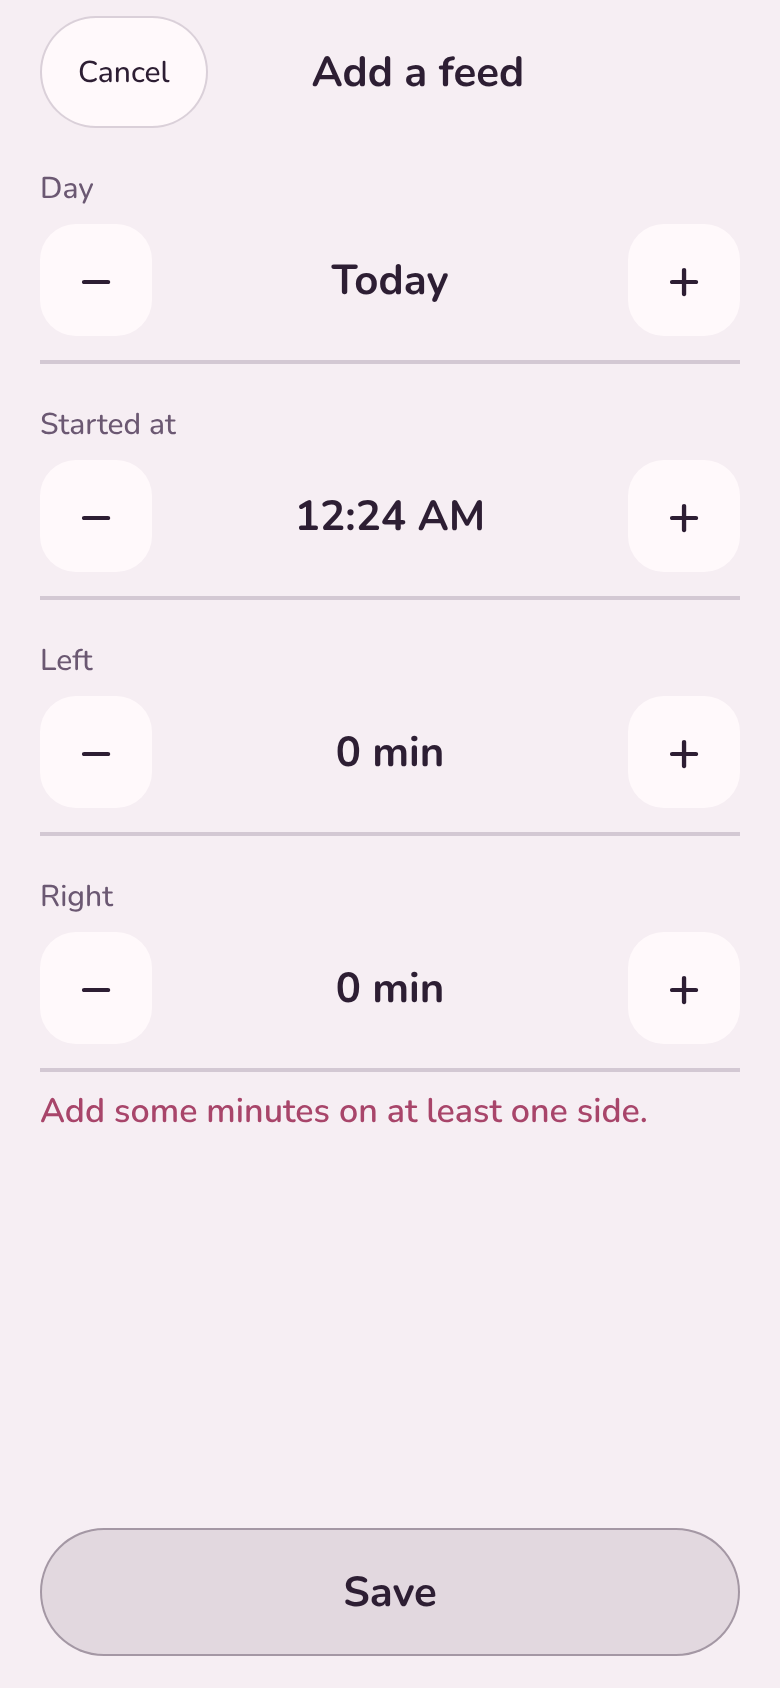
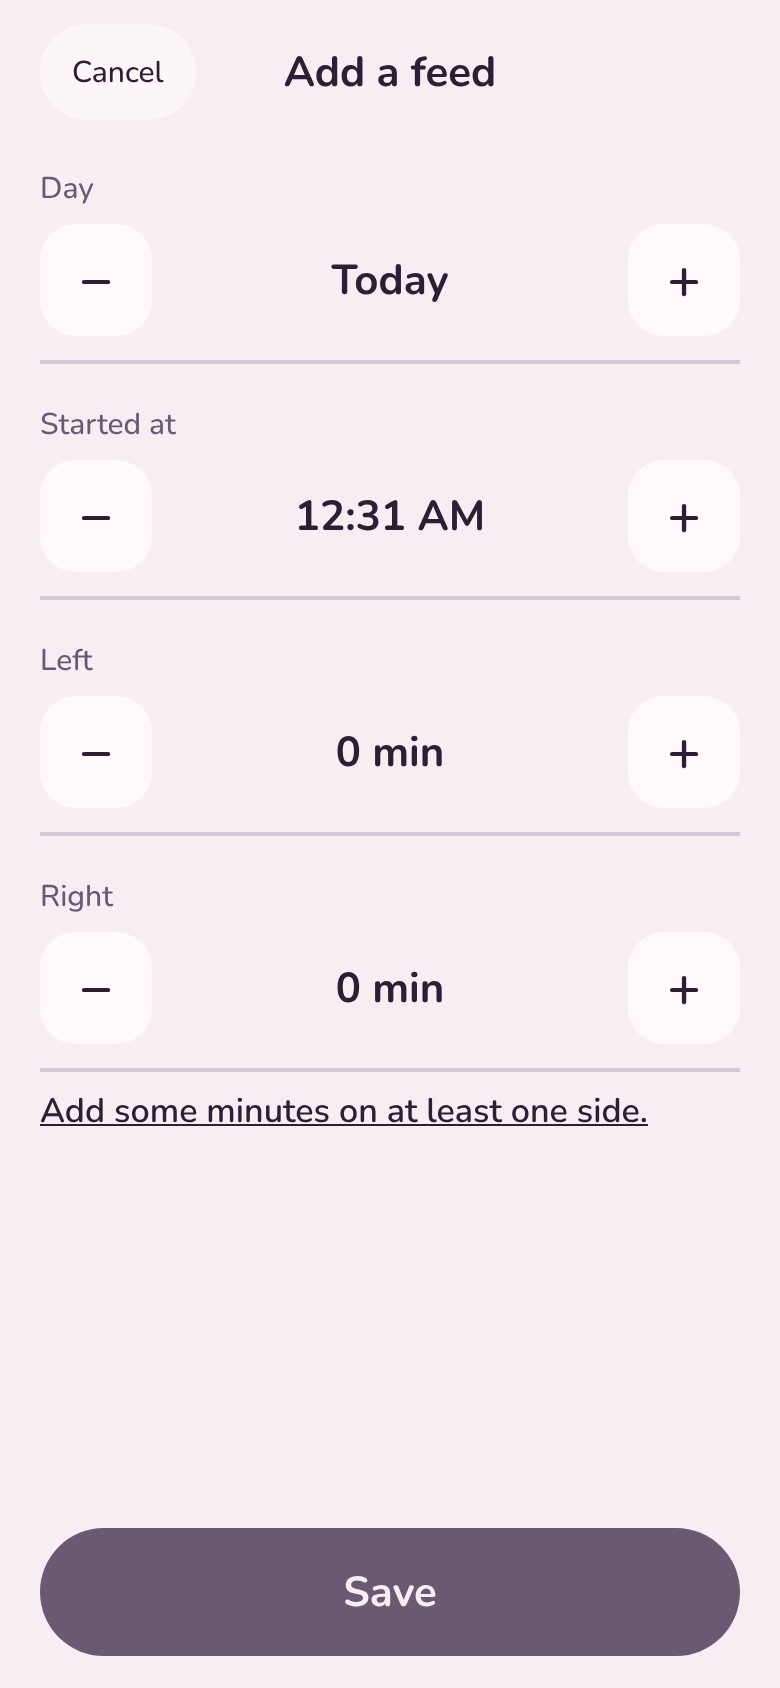
Polish the plum design after the round 8 critic [skip ci]
Done and Save are filled lilac, the feeding side is a tint with an outline,
day Right is coral, the ring is lilac at rest and still while feeding, card
buttons have one clear main choice, links and errors use the text colour,
titles are centred and the snackbar actions are plain text.

Claude-Session: https://claude.ai/code/session_01Uge6Tu9nfBMVmhGxJKiexz

diff --git a/src/components/ui.tsx b/src/components/ui.tsx
@@ -36,9 +36,9 @@ export function PrimaryButton({ label, onPress, hint, testID }: { label: string;
       onPress={onPress}
       accessibilityRole="button"
       accessibilityHint={hint}
-      style={({ pressed }) => [styles.primary, { backgroundColor: wash(p.ink, pressed ? '2E' : '1A'), borderColor: wash(p.ink, '59') }]}
+      style={({ pressed }) => [styles.primary, { backgroundColor: p.muted, opacity: pressed ? 0.85 : 1 }]}
     >
-      <T style={type.title} maxFontSizeMultiplier={1.6}>{label}</T>
+      <T tone="onAccent" style={type.title} maxFontSizeMultiplier={1.6}>{label}</T>
     </Pressable>
   );
 }
@@ -48,8 +48,8 @@ export function SecondaryButton({ label, onPress, testID, strong }: { label: str
   const p = usePalette();
   return (
     <Pressable testID={testID} onPress={onPress} accessibilityRole="button"
-      style={({ pressed }) => [styles.secondary, { backgroundColor: p.bg, borderColor: strong ? p.accent : 'transparent', opacity: pressed ? 0.75 : 1 }]}>
-      <T tone={strong ? 'accent' : 'ink'} style={{ textAlign: 'center' }}>{label}</T>
+      style={({ pressed }) => [styles.secondary, { backgroundColor: strong ? p.muted : 'transparent', opacity: pressed ? 0.75 : 1 }]}>
+      <T tone={strong ? 'onAccent' : 'muted'} style={{ textAlign: 'center' }}>{label}</T>
     </Pressable>
   );
 }
@@ -69,7 +69,7 @@ export function PillButton({ label, onPress, testID, a11yLabel }: { label: strin
   const p = usePalette();
   return (
     <Pressable testID={testID} onPress={onPress} accessibilityRole="button" accessibilityLabel={a11yLabel ?? label}
-      style={({ pressed }) => [styles.pill, { backgroundColor: p.surface, borderColor: line(p), opacity: pressed ? 0.75 : 1 }]}>
+      style={({ pressed }) => [styles.pill, { backgroundColor: wash(p.surface, 'B3'), opacity: pressed ? 0.75 : 1 }]}>
       <T maxFontSizeMultiplier={1.5} numberOfLines={1} style={type.label}>{label}</T>
     </Pressable>
   );
@@ -78,8 +78,13 @@ export function PillButton({ label, onPress, testID, a11yLabel }: { label: strin
 export function TopBar({ title, left, right }: { title?: string; left?: ReactNode; right?: ReactNode }) {
   return (
     <View style={styles.topBar}>
+      {title ? (
+        <View style={[StyleSheet.absoluteFill, styles.topTitleBox]} pointerEvents="none">
+          <T style={[type.title, styles.topTitle]} accessibilityRole="header" numberOfLines={1} maxFontSizeMultiplier={1.4}>{title}</T>
+        </View>
+      ) : null}
       <View style={styles.topSide}>{left}</View>
-      {title ? <T style={[type.title, styles.topTitle]} accessibilityRole="header" numberOfLines={1}>{title}</T> : <View style={{ flex: 1 }} />}
+      <View style={{ flex: 1 }} />
       <View style={[styles.topSide, { alignItems: 'flex-end' }]}>{right}</View>
     </View>
   );
@@ -134,7 +139,7 @@ export function SnackbarSlot() {
   return (
     <Animated.View
       accessibilityLiveRegion="polite"
-      style={[styles.snack, { backgroundColor: p.surface, borderColor: p.accent, opacity: y, transform: [{ translateY: y.interpolate({ inputRange: [0, 1], outputRange: [12, 0] }) }] }]}
+      style={[styles.snack, { backgroundColor: p.surface, borderColor: wash(p.muted, '59'), opacity: y, transform: [{ translateY: y.interpolate({ inputRange: [0, 1], outputRange: [12, 0] }) }] }]}
     >
       <Text maxFontSizeMultiplier={1.6} style={[type.body, { color: p.ink, flex: 1, minWidth: 140 }]}>{snack.message}</Text>
       <View style={{ flexDirection: 'row', flexWrap: 'wrap' }}>
@@ -146,7 +151,7 @@ export function SnackbarSlot() {
               hideSnack();
               a.onPress();
             }} style={styles.snackAction}>
-            <Text maxFontSizeMultiplier={1.6} style={[type.body, { color: p.accent, textDecorationLine: 'underline' }]}>{a.label}</Text>
+            <Text maxFontSizeMultiplier={1.6} style={[type.body, { color: p.ink, fontWeight: '700' }]}>{a.label}</Text>
           </Pressable>
         ))}
       </View>
@@ -155,13 +160,14 @@ export function SnackbarSlot() {
 }
 
 const styles = StyleSheet.create({
-  primary: { minHeight: 64, borderWidth: 1.5, borderRadius: radius.big, alignItems: 'center', justifyContent: 'center', paddingHorizontal: space.xl, paddingVertical: space.m },
-  secondary: { flexGrow: 1, flexBasis: 140, minHeight: TAP, borderRadius: radius.row, borderWidth: 1.5, alignItems: 'center', justifyContent: 'center', paddingHorizontal: space.m, paddingVertical: space.s },
+  primary: { minHeight: 64, borderRadius: radius.big, alignItems: 'center', justifyContent: 'center', paddingHorizontal: space.xl, paddingVertical: space.m },
+  secondary: { alignSelf: 'stretch', minHeight: TAP, borderRadius: radius.row, alignItems: 'center', justifyContent: 'center', paddingHorizontal: space.m, paddingVertical: space.s },
   quiet: { minHeight: TAP, minWidth: TAP, alignItems: 'center', justifyContent: 'center', paddingHorizontal: space.m },
-  pill: { minHeight: TAP, minWidth: TAP, borderRadius: TAP / 2, borderWidth: 1, paddingHorizontal: space.l + 2, alignItems: 'center', justifyContent: 'center' },
+  pill: { minHeight: 48, minWidth: TAP, borderRadius: 24, paddingHorizontal: space.l, alignItems: 'center', justifyContent: 'center' },
   topBar: { flexDirection: 'row', alignItems: 'center', paddingHorizontal: space.side, paddingVertical: space.s, gap: space.m, minHeight: TAP + space.l },
   topSide: { minWidth: TAP },
-  topTitle: { flex: 1, textAlign: 'center' },
+  topTitleBox: { alignItems: 'center', justifyContent: 'center', paddingHorizontal: 120 },
+  topTitle: { textAlign: 'center' },
   choice: { flexDirection: 'row', borderWidth: 1.5, borderRadius: radius.row, overflow: 'hidden' },
   choiceItem: { flex: 1, minHeight: TAP, alignItems: 'center', justifyContent: 'center', paddingHorizontal: space.m },
   snack: { borderRadius: radius.row, borderWidth: 1.5, paddingHorizontal: space.l, paddingVertical: space.s, flexDirection: 'row', alignItems: 'center', flexWrap: 'wrap', gap: space.s },

diff --git a/src/app/index.tsx b/src/app/index.tsx
@@ -45,18 +45,15 @@ export default function Home() {
   // only when a reminder can actually ring
   const due = settings.remindersOn && permission === 'granted' && isDue(feeds, settings, now);
 
-  // The ring: while feeding it sweeps once a minute like a gentle second hand; otherwise it fills
-  // as time since the last feed started approaches her reminder time.
   const { width, height } = useWindowDimensions();
   // the ring makes room when a question card is showing
   const ring = Math.min(width - 2 * space.side - 40, height * 0.36, 300);
   // when a question card needs the room, the same answer shows without the ring
   const compact = showStill || showAsk;
-  const ringProgress = active
-    ? (totalMs(active, now) % 60_000) / 60_000
-    : last ? (now - feedStart(last)) / (settings.intervalMin * 60_000) : 0;
-  // the ring takes the colour of the side that is feeding; at rest it is rose, and full once her time has passed
-  const ringColor = active ? (active.status === 'paused' ? p.muted : sideColor(p, endSide(active))) : p.accent;
+  const ringProgress = active ? 1 : last ? (now - feedStart(last)) / (settings.intervalMin * 60_000) : 0;
+  // While feeding the ring is a calm full circle in the feeding side's colour. At rest it is neutral
+  // and fills as time passes towards her reminder time.
+  const ringColor = active ? (active.status === 'paused' ? wash(p.muted, '80') : sideColor(p, endSide(active))) : p.muted;
 
   return (
     <Screen>
@@ -108,7 +105,7 @@ export default function Home() {
                 Last feed at {timeOf(feedStart(last))} · {sideRuns(last, now).map((r) => `${r.side} ${mins(r.ms)}m`).join(' then ')}
               </T>
               {due ? (
-                <T tone="accent" style={[type.body, styles.centreText]}>Past your {span(settings.intervalMin * 60_000)} reminder time</T>
+                <T style={[type.body, styles.centreText]}>Past your {span(settings.intervalMin * 60_000)} reminder time</T>
               ) : (
                 app.scheduledAt !== null && <T testID="reminder-at" tone="muted" style={[type.label, styles.centreText]}>Reminder at {timeOf(app.scheduledAt)}</T>
               )}
@@ -136,7 +133,7 @@ export default function Home() {
           {showAsk && (
             <Card style={styles.wide}>
               <T style={type.body}>Want a reminder after each feed starts?</T>
-              <T tone="muted" style={[type.label, { marginTop: space.xs }]}>You choose how long in Settings. It starts at {span(settings.intervalMin * 60_000)}.</T>
+              <T tone="muted" style={[type.label, { marginTop: space.xs }]}>It comes {span(settings.intervalMin * 60_000)} after a feed starts. You can change that in Settings.</T>
               <View style={styles.cardButtons}>
                 <SecondaryButton label="Turn on" strong onPress={app.askReminders} testID="reminders-on" />
                 <SecondaryButton label="Not now" onPress={() => app.updateSettings({ reminderAsked: true, remindersOn: false })} testID="reminders-not-now" />
@@ -166,7 +163,7 @@ const styles = StyleSheet.create({
   sideChip: { borderRadius: 999, paddingHorizontal: space.l, paddingVertical: 6, marginTop: space.xs },
   under: { gap: 2, alignItems: 'center' },
   wide: { alignSelf: 'stretch' },
-  cardButtons: { flexDirection: 'row', flexWrap: 'wrap', gap: space.s, marginTop: space.l },
+  cardButtons: { gap: space.xs, marginTop: space.l },
   bottom: { gap: space.m, paddingHorizontal: space.side, paddingTop: space.s },
   sides: { flexDirection: 'row', gap: space.m },
 });

diff --git a/src/components/SideButton.tsx b/src/components/SideButton.tsx
@@ -22,7 +22,7 @@ export function SideButton({ side, state, ms, onPress }: { side: Side; state: Si
   const p = usePalette();
   const running = state === 'running';
   const marked = state === 'suggested' || state === 'paused';
-  const fg = running ? 'onAccent' : 'ink';
+  const fg = 'ink';
   const c = sideColor(p, side);
   return (
     <Pressable
@@ -34,8 +34,8 @@ export function SideButton({ side, state, ms, onPress }: { side: Side; state: Si
       style={({ pressed }) => [
         styles.button,
         {
-          backgroundColor: running ? c : marked ? wash(c, '1F') : p.surface,
-          borderColor: marked ? c : 'transparent',
+          backgroundColor: running ? wash(c, '40') : marked ? wash(c, '1F') : p.surface,
+          borderColor: running || marked ? c : 'transparent',
           transform: [{ scale: pressed ? 0.97 : 1 }],
         },
       ]}
@@ -46,11 +46,11 @@ export function SideButton({ side, state, ms, onPress }: { side: Side; state: Si
           {clock(ms)}
         </T>
       )}
-      <View style={[styles.chip, marked && { backgroundColor: c }]}>
+      <View style={[styles.chip, (marked || running) && { backgroundColor: c }]}>
         <T
-          tone={running ? 'onAccent' : marked ? 'onAccent' : 'muted'}
+          tone={running || marked ? 'onAccent' : 'muted'}
           maxFontSizeMultiplier={1.5}
-          style={[type.label, { textAlign: 'center', fontWeight: marked ? '700' : '500' }]}
+          style={[type.label, { textAlign: 'center', fontWeight: marked || running ? '700' : '500' }]}
         >
           {STATUS[state]}
         </T>

diff --git a/src/app/settings.tsx b/src/app/settings.tsx
@@ -66,11 +66,11 @@ export default function SettingsScreen() {
           {settings.remindersOn && permission === 'denied' && (
             <View style={{ gap: space.xs }}>
               <T tone="muted" style={type.label}>Notifications are off for {APP_NAME} in your phone settings.</T>
-              <QuietButton label="Open settings" tone="accent" onPress={() => Linking.openSettings()} style={styles.left} />
+              <QuietButton label="Open settings" tone="ink" onPress={() => Linking.openSettings()} style={styles.left} />
             </View>
           )}
           {settings.remindersOn && permission === 'undetermined' && (
-            <QuietButton label="Allow notifications" tone="accent" onPress={askReminders} style={styles.left} testID="allow" />
+            <QuietButton label="Allow notifications ›" tone="ink" onPress={askReminders} style={styles.left} testID="allow" />
           )}
         </Section>
 
@@ -86,8 +86,8 @@ export default function SettingsScreen() {
         <Section label="Your data">
           <T tone="muted" style={type.label}>Everything stays on this phone. Nothing is sent anywhere.</T>
           <QuietButton
-            label={`Export ${savedFeeds(feeds).length} feeds as a spreadsheet`}
-            tone="accent"
+            label={`Export ${savedFeeds(feeds).length} feeds as a spreadsheet ›`}
+            tone="ink"
             onPress={exportCsv}
             style={styles.left}
             testID="export"

diff --git a/src/app/history.tsx b/src/app/history.tsx
@@ -77,7 +77,7 @@ export default function History() {
           );
         }}
       />
-      <View style={styles.bottom}>
+      <View style={[styles.bottom, { borderTopColor: wash(p.muted, '33') }]}>
         <SnackbarSlot />
         <PrimaryButton label="Add a feed" onPress={() => router.push('/feed/new')} testID="add-feed" />
       </View>
@@ -93,5 +93,5 @@ const styles = StyleSheet.create({
   chip: { borderRadius: 999, paddingHorizontal: space.s + 2, paddingVertical: 3 },
   time: { minWidth: 84, fontVariant: ['tabular-nums'] },
   empty: { flex: 1, alignItems: 'center', justifyContent: 'center', gap: space.s, paddingTop: 120 },
-  bottom: { paddingHorizontal: space.side, gap: space.m },
+  bottom: { paddingHorizontal: space.side, gap: space.m, paddingTop: space.m, borderTopWidth: StyleSheet.hairlineWidth * 2 },
 });

diff --git a/src/app/feed/[id].tsx b/src/app/feed/[id].tsx
@@ -96,7 +96,7 @@ export default function FeedEditor() {
             />
           </View>
         )}
-        {problem && <T tone="accent" accessibilityLiveRegion="polite" style={type.body}>{problem}</T>}
+        {problem && <T accessibilityLiveRegion="polite" style={[type.body, { textDecorationLine: 'underline' }]}>{problem}</T>}
       </ScrollView>
       <View style={styles.bottom}>
         <PrimaryButton label="Save" onPress={save} testID="save-feed" />

diff --git a/src/theme.ts b/src/theme.ts
@@ -22,7 +22,7 @@ export const palettes = {
     ink: '#2D1E33',
     muted: '#6B5872',
     accent: '#A8456A',
-    peach: '#A9532B',
+    peach: '#B0503F',
     onAccent: '#F6EEF3',
   },
 } as const;

diff --git a/docs/ledger.md b/docs/ledger.md
@@ -114,3 +114,16 @@ Philip found the warm brown and honey look ugly and chose "soft midnight plum" w
 * New icon in the same palette.
 * "Reminder at" on Home now reads the reminder the phone actually has queued, which the iPhone end to end run checks.
 * Android dropped at Philip's request; testing moved to an iPhone simulator on GitHub's Macs.
+
+## Round 8: critic on the plum redesign (first of the two Philip allowed before he checks it)
+
+Verdict: one more pass ("clearly better than brown and honey ... not premium yet"). Fixed:
+
+1. Done was the weakest button while feeding. **Now** a filled lilac button with plum text; Save and Add a feed match.
+2. The solid side tile glared at 3 am, and the day Right colour read brown. **Now** the feeding side is a soft tint with a coloured outline and a filled "Tap to pause" chip; day Right is coral `#B0503F`.
+3. The ring's meaning clashed with the side colours and swept every minute for no reason. **Now** lilac at rest, filling towards her reminder time; a calm full circle in the feeding side's colour while feeding; no sweep.
+5. Card buttons had the wrong emphasis and wrapped. **Now** the main choice is filled and full width, the other is quiet text under it; copy rewritten to avoid orphans.
+6. Rose meant too many things. **Now** errors and links are in the text colour (links with ›).
+7. Polish: titles truly centred; History list sits above a divider; snackbar actions are bold text, not web links; top bar pills lighter.
+
+Not changed: the ring stepping aside for question cards (kept on purpose so card buttons always fit), and Done above the side buttons (moving it below would make the side buttons jump when a feed starts, which round 5 fixed).

diff --git a/docs/style.md b/docs/style.md
@@ -9,9 +9,9 @@ Direction (chosen by Philip): **soft midnight plum, with a big ring**. Nuzzle sh
 | `bg` | `#1A1221` deep plum | `#F6EEF3` blush | Screen background; also the text on filled rose or peach |
 | `surface` | `#2A1E33` aubergine | `#FFF9FB` | Cards, side buttons at rest, sheets |
 | `ink` | `#F4E9EF` soft pink cream (never pure white) | `#2D1E33` | Main text, big numbers, the neutral Done and Save buttons |
-| `muted` | `#BBA9C2` lilac grey | `#6B5872` | Labels, secondary lines, the ring's track |
+| `muted` | `#BBA9C2` lilac grey | `#6B5872` | Labels, the ring at rest, Done and Save (filled, with plum text) |
 | `accent` (rose) | `#EBA3B9` | `#A8456A` | **Left** everywhere; the ring at rest; selected options |
-| `peach` | `#F4BC9C` | `#A9532B` | **Right** everywhere |
+| `peach` | `#F4BC9C` | `#B0503F` coral | **Right** everywhere |
 
 **Each side keeps its own colour on every screen:** Left is rose and Right is peach, on the side buttons, the ring while feeding, the "Ended on" chip and the History chips. Half asleep, she can tell the sides apart without reading. The main actions (Done, Save, Add a feed) are deliberately neutral (a soft cream outline) so they are never mistaken for a side.
 
